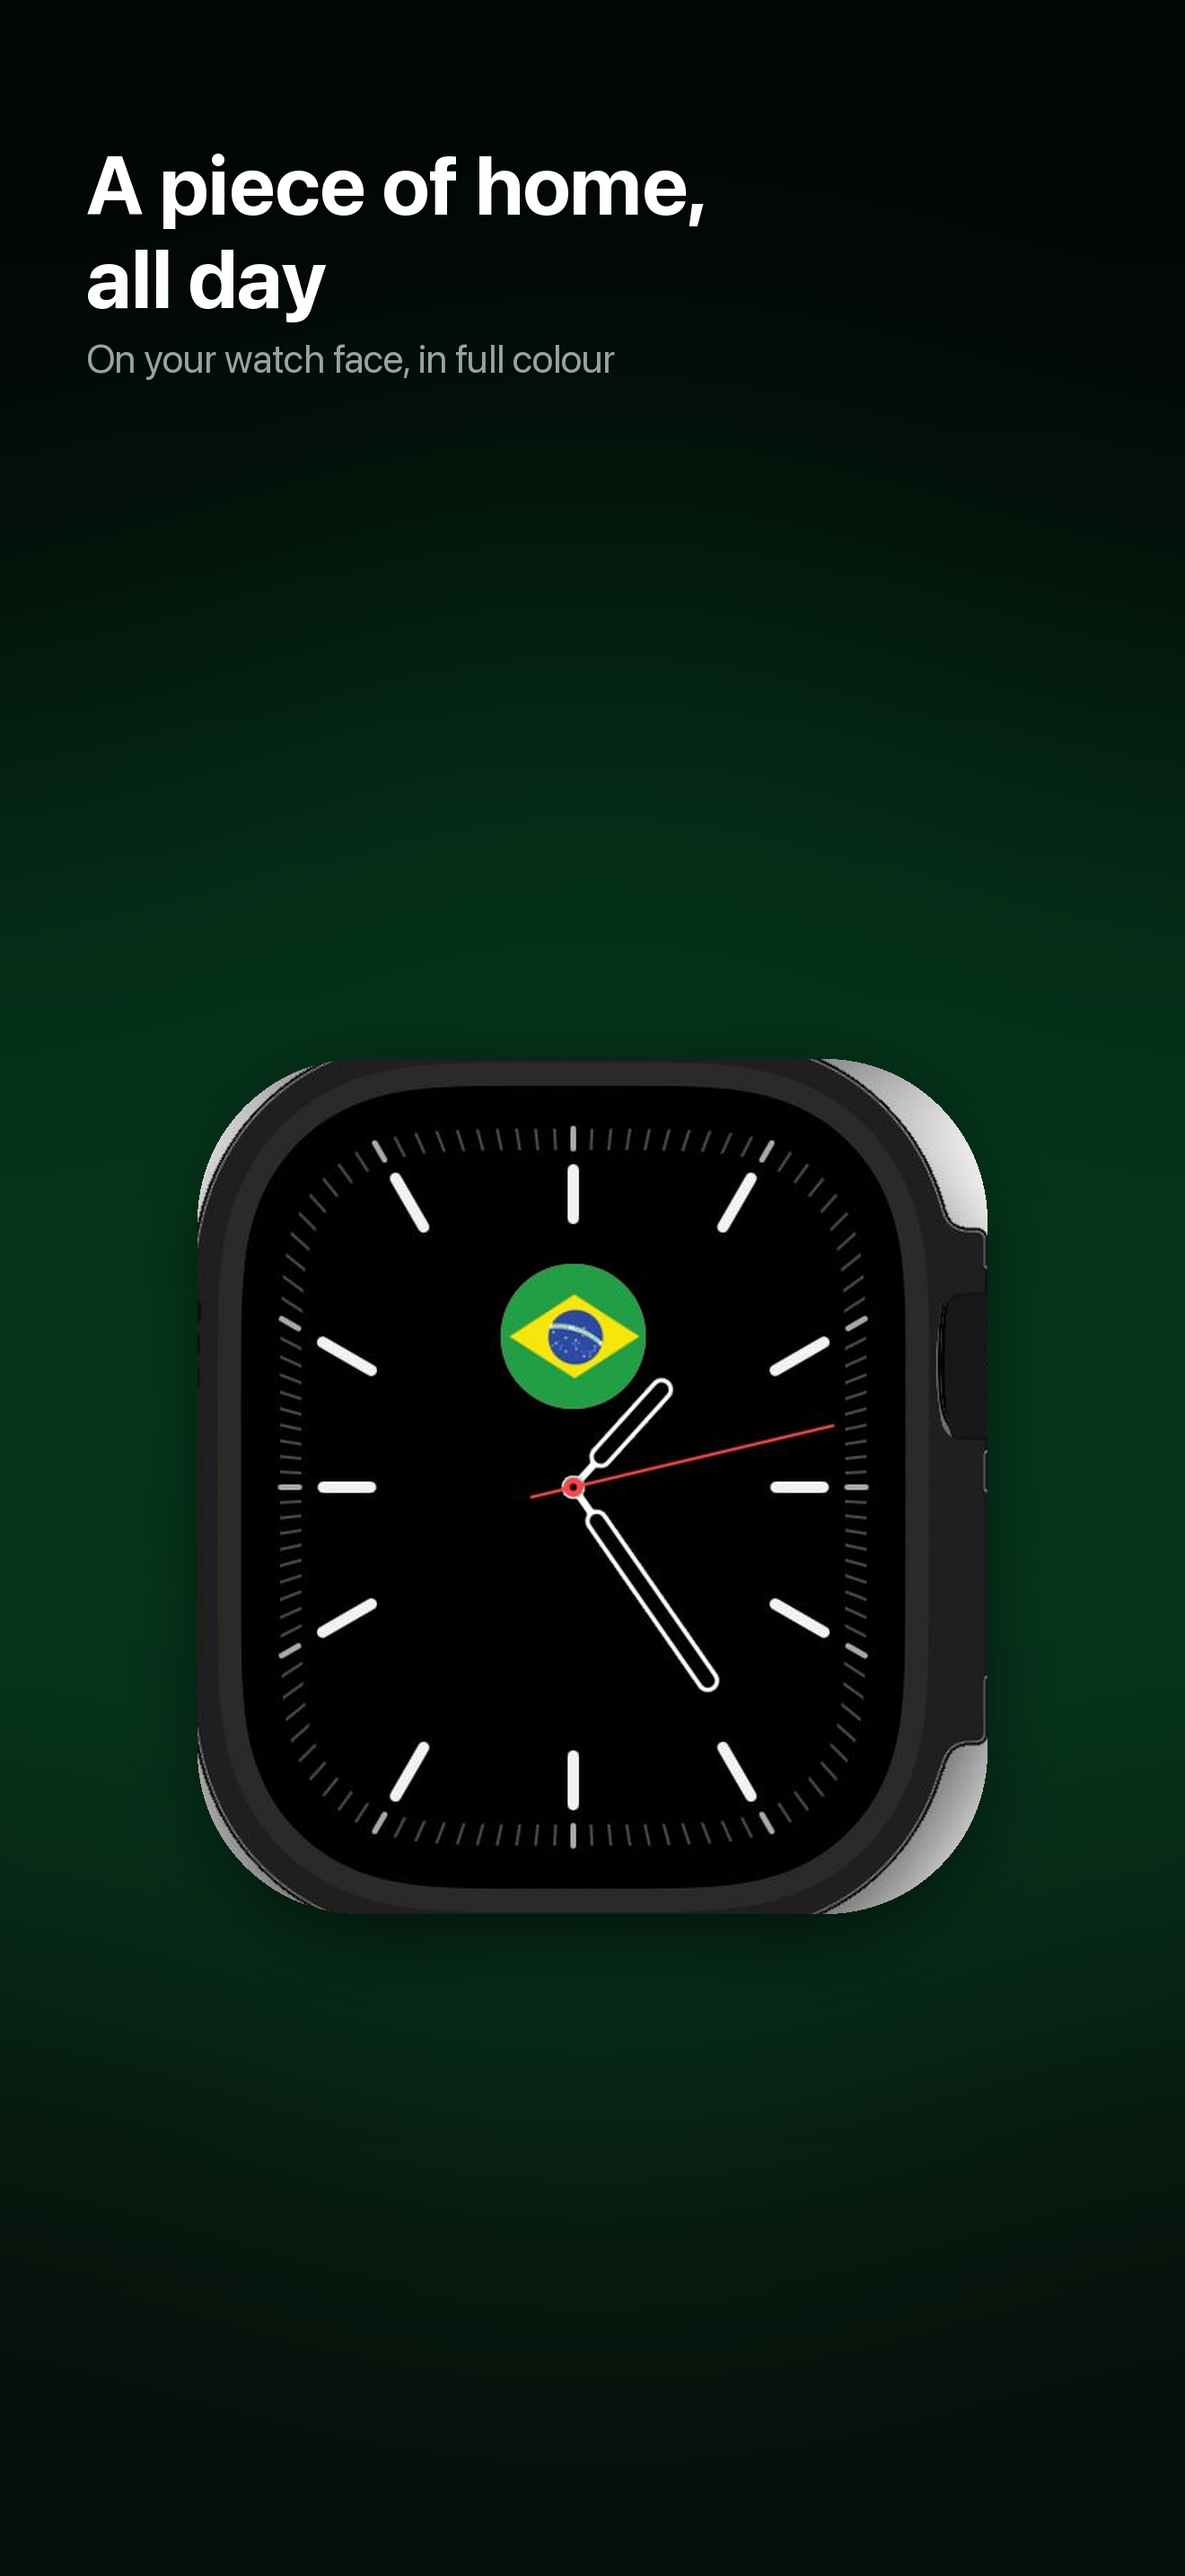
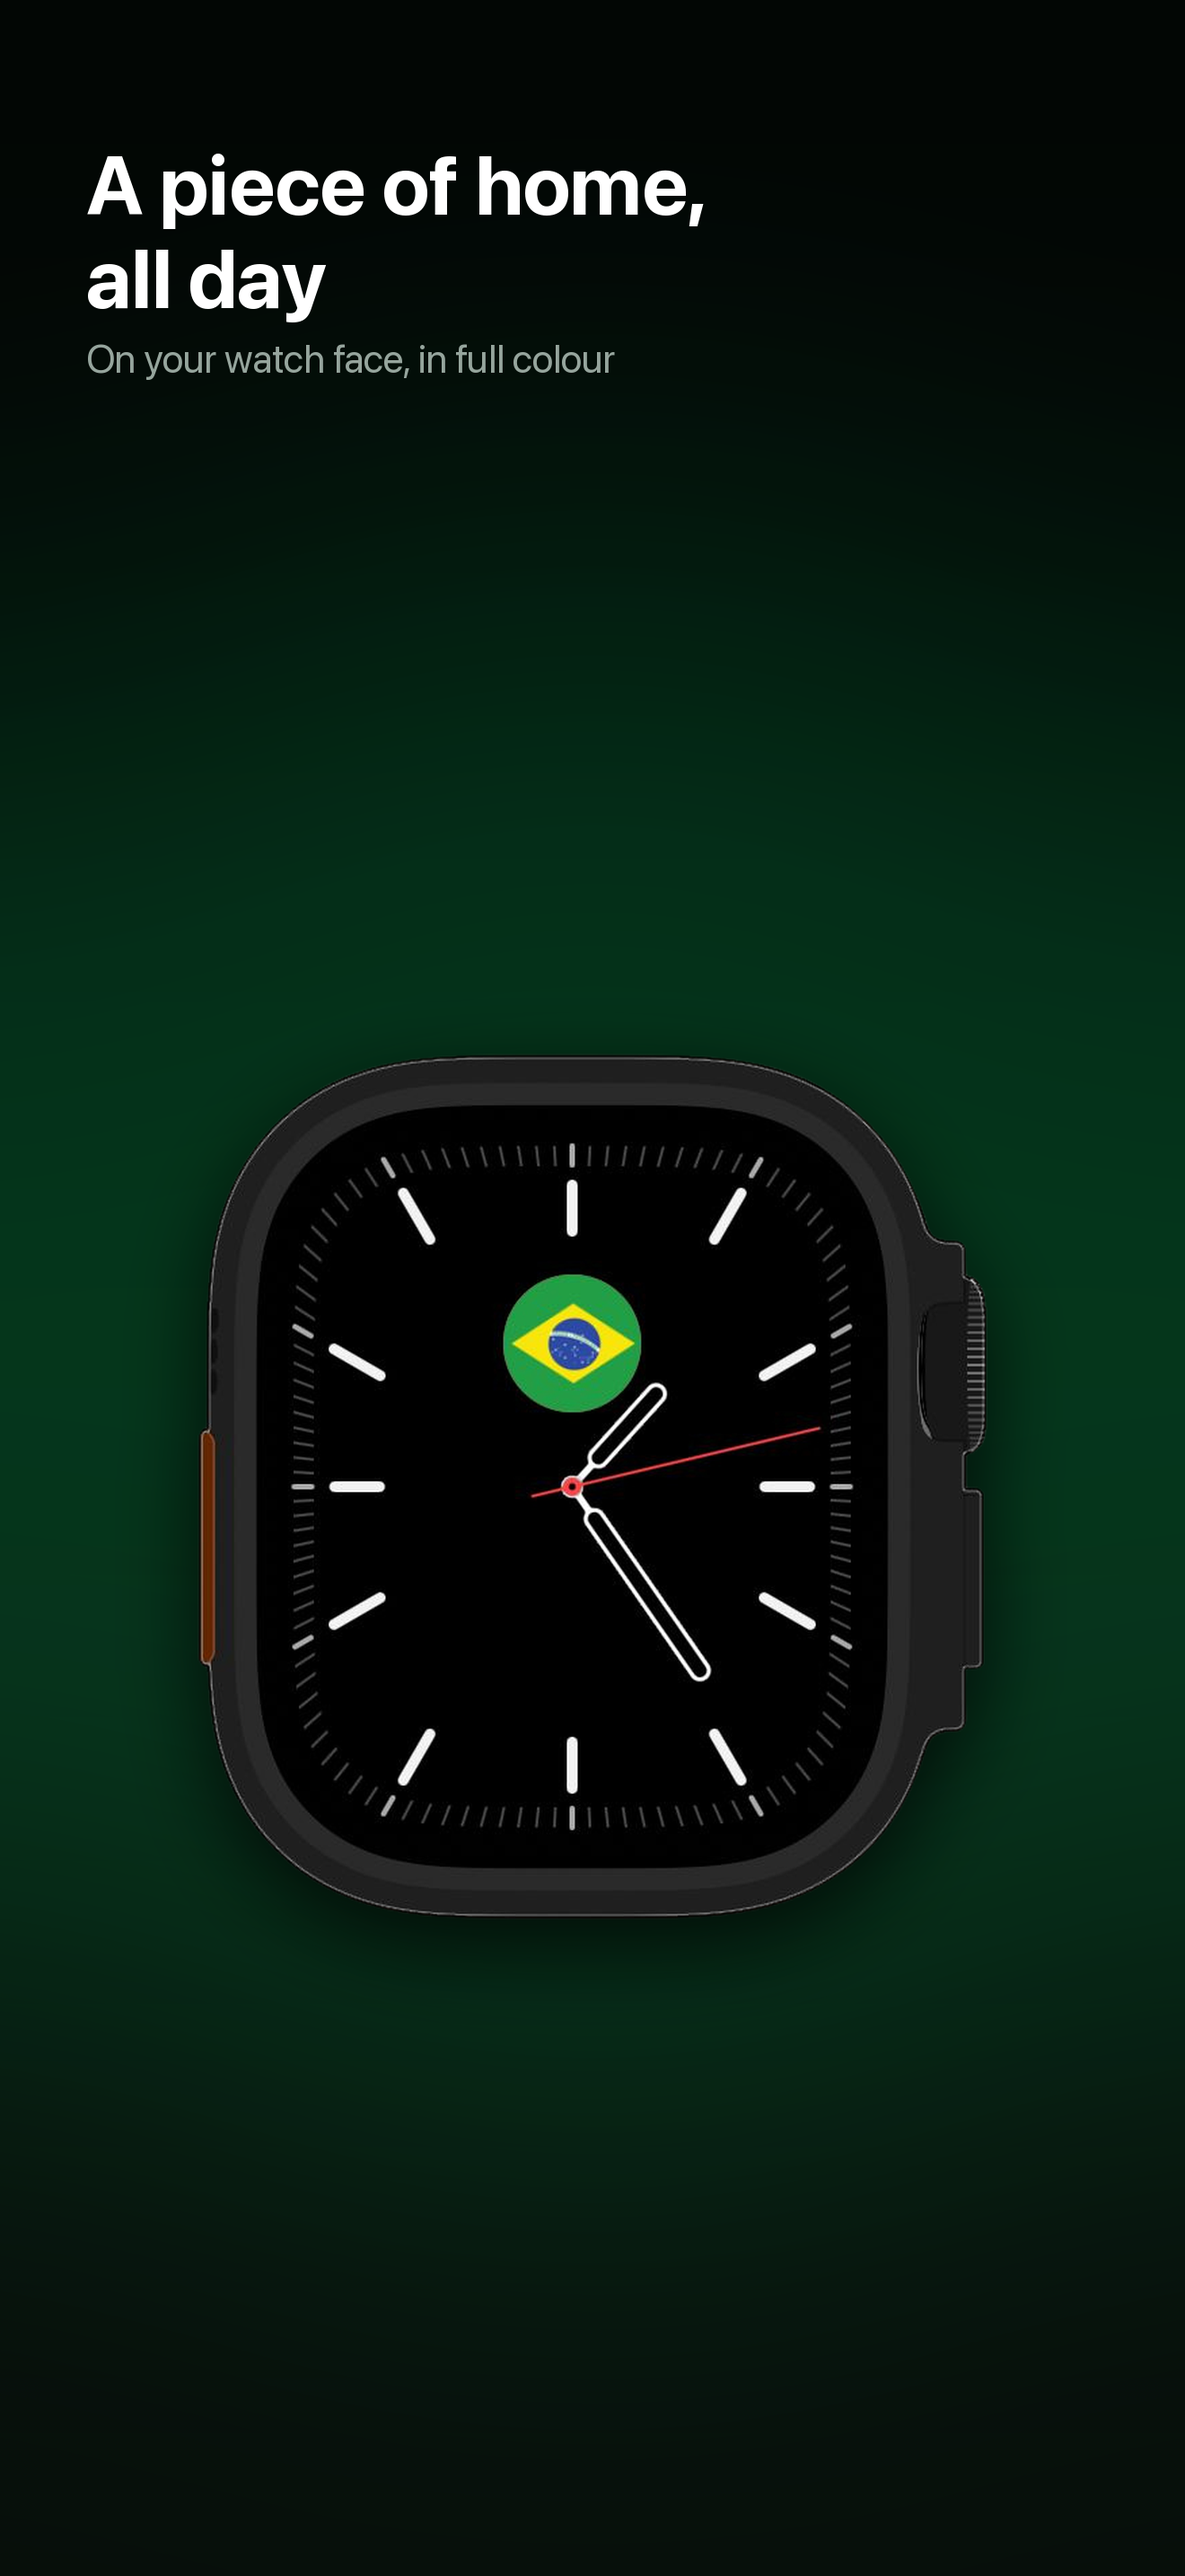
Use the cut-out watch, and cast its shadow from the silhouette
The watch source is now a PNG with a real alpha channel instead of a crop of
a simulator window, so the panel drops the rounded card entirely: the watch's
own outline is the shape.

That also removes what the card was papering over. Masking a rectangular crop
left the pale simulator-window background showing in the corners, and no
radius fixed it properly -- too small and the corners showed, too large and
the bezel got clipped.

The shadow is now blurred from the alpha channel rather than from a rounded
rectangle, so it follows the case and the crown instead of a box the watch
happens to sit inside.

diff --git a/Tools/frame-screenshots.py b/Tools/frame-screenshots.py
@@ -97,25 +97,22 @@ def compose_watch(src, head, sub, dest):
     y += 14
     d.text((x, y), sub, font=sf, fill=(150, 165, 157))
 
-    shot = Image.open(os.path.join(S, src)).convert("RGB")
-    # Not larger: the source is a crop of a simulator window, so pushing it
-    # much past this starts to look soft.
+    # The source is a cut-out with a real alpha channel, so there is no mask
+    # and no card here: the watch's own silhouette is the shape, and the
+    # shadow is cast from that rather than from a rounded rectangle.
+    shot = Image.open(os.path.join(S, src)).convert("RGBA")
+    shot = shot.crop(shot.getchannel("A").getbbox())
+
     tw = 880
     shot = shot.resize((tw, int(shot.height * tw / shot.width)), Image.LANCZOS)
-    # The radius matches the watch's own corner, so the mask clips away the
-    # pale simulator-window background outside the bezel instead of leaving it
-    # showing in the corners.
-    card = rounded(shot, int(tw * 0.205))
 
-    # Centred in whatever is left under the text, rather than a fixed offset.
     px = (W - tw) // 2
-    py = y + 70 + (H - (y + 70) - card.height) // 2
-    shadow = Image.new("RGBA", (W, H), (0, 0, 0, 0))
-    ImageDraw.Draw(shadow).rounded_rectangle(
-        [px + 20, py + 34, px + tw - 20, py + card.height + 14],
-        int(tw * 0.205), fill=(0, 0, 0, 180))
-    canvas = Image.alpha_composite(canvas, shadow.filter(ImageFilter.GaussianBlur(46)))
-    canvas.alpha_composite(card, (px, py))
+    py = y + 70 + (H - (y + 70) - shot.height) // 2
+
+    silhouette = Image.new("RGBA", (W, H), (0, 0, 0, 0))
+    silhouette.paste((0, 0, 0, 190), (px, py + 30), shot.getchannel("A"))
+    canvas = Image.alpha_composite(canvas, silhouette.filter(ImageFilter.GaussianBlur(44)))
+    canvas.alpha_composite(shot, (px, py))
 
     canvas.convert("RGB").save(os.path.join(OUT, dest), quality=95)
     print("wrote", dest, Image.open(os.path.join(OUT, dest)).size)
